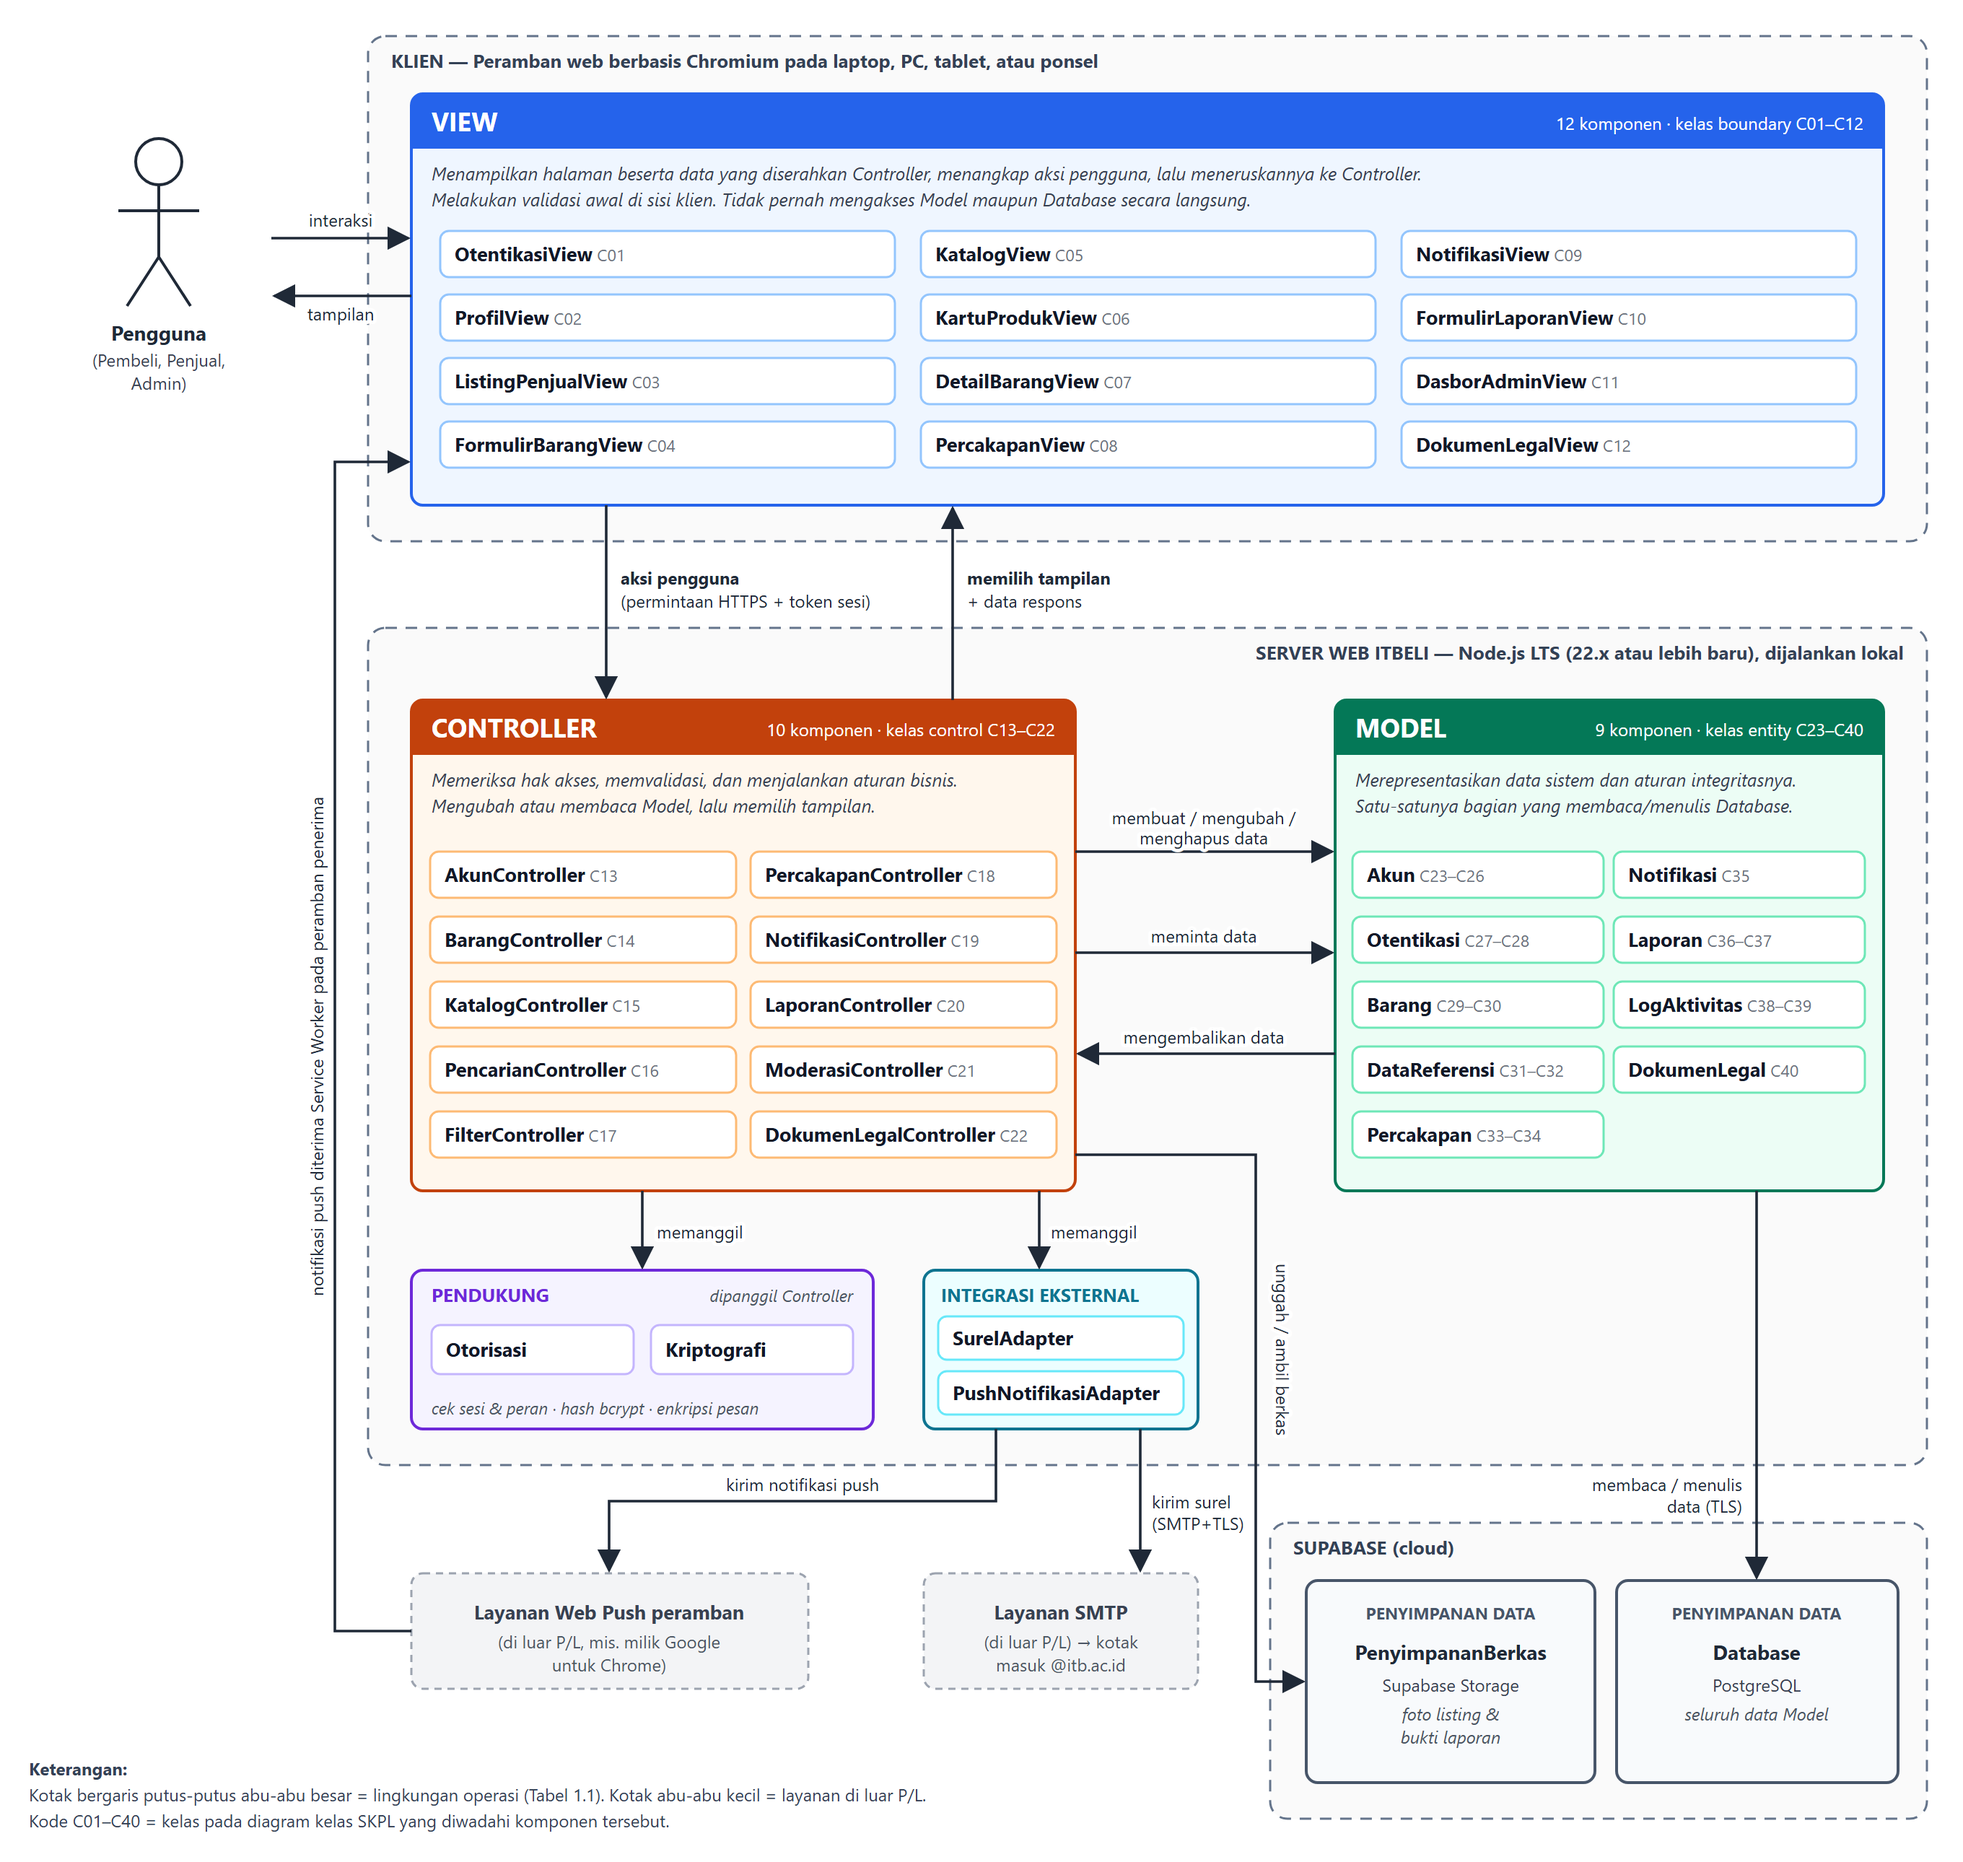
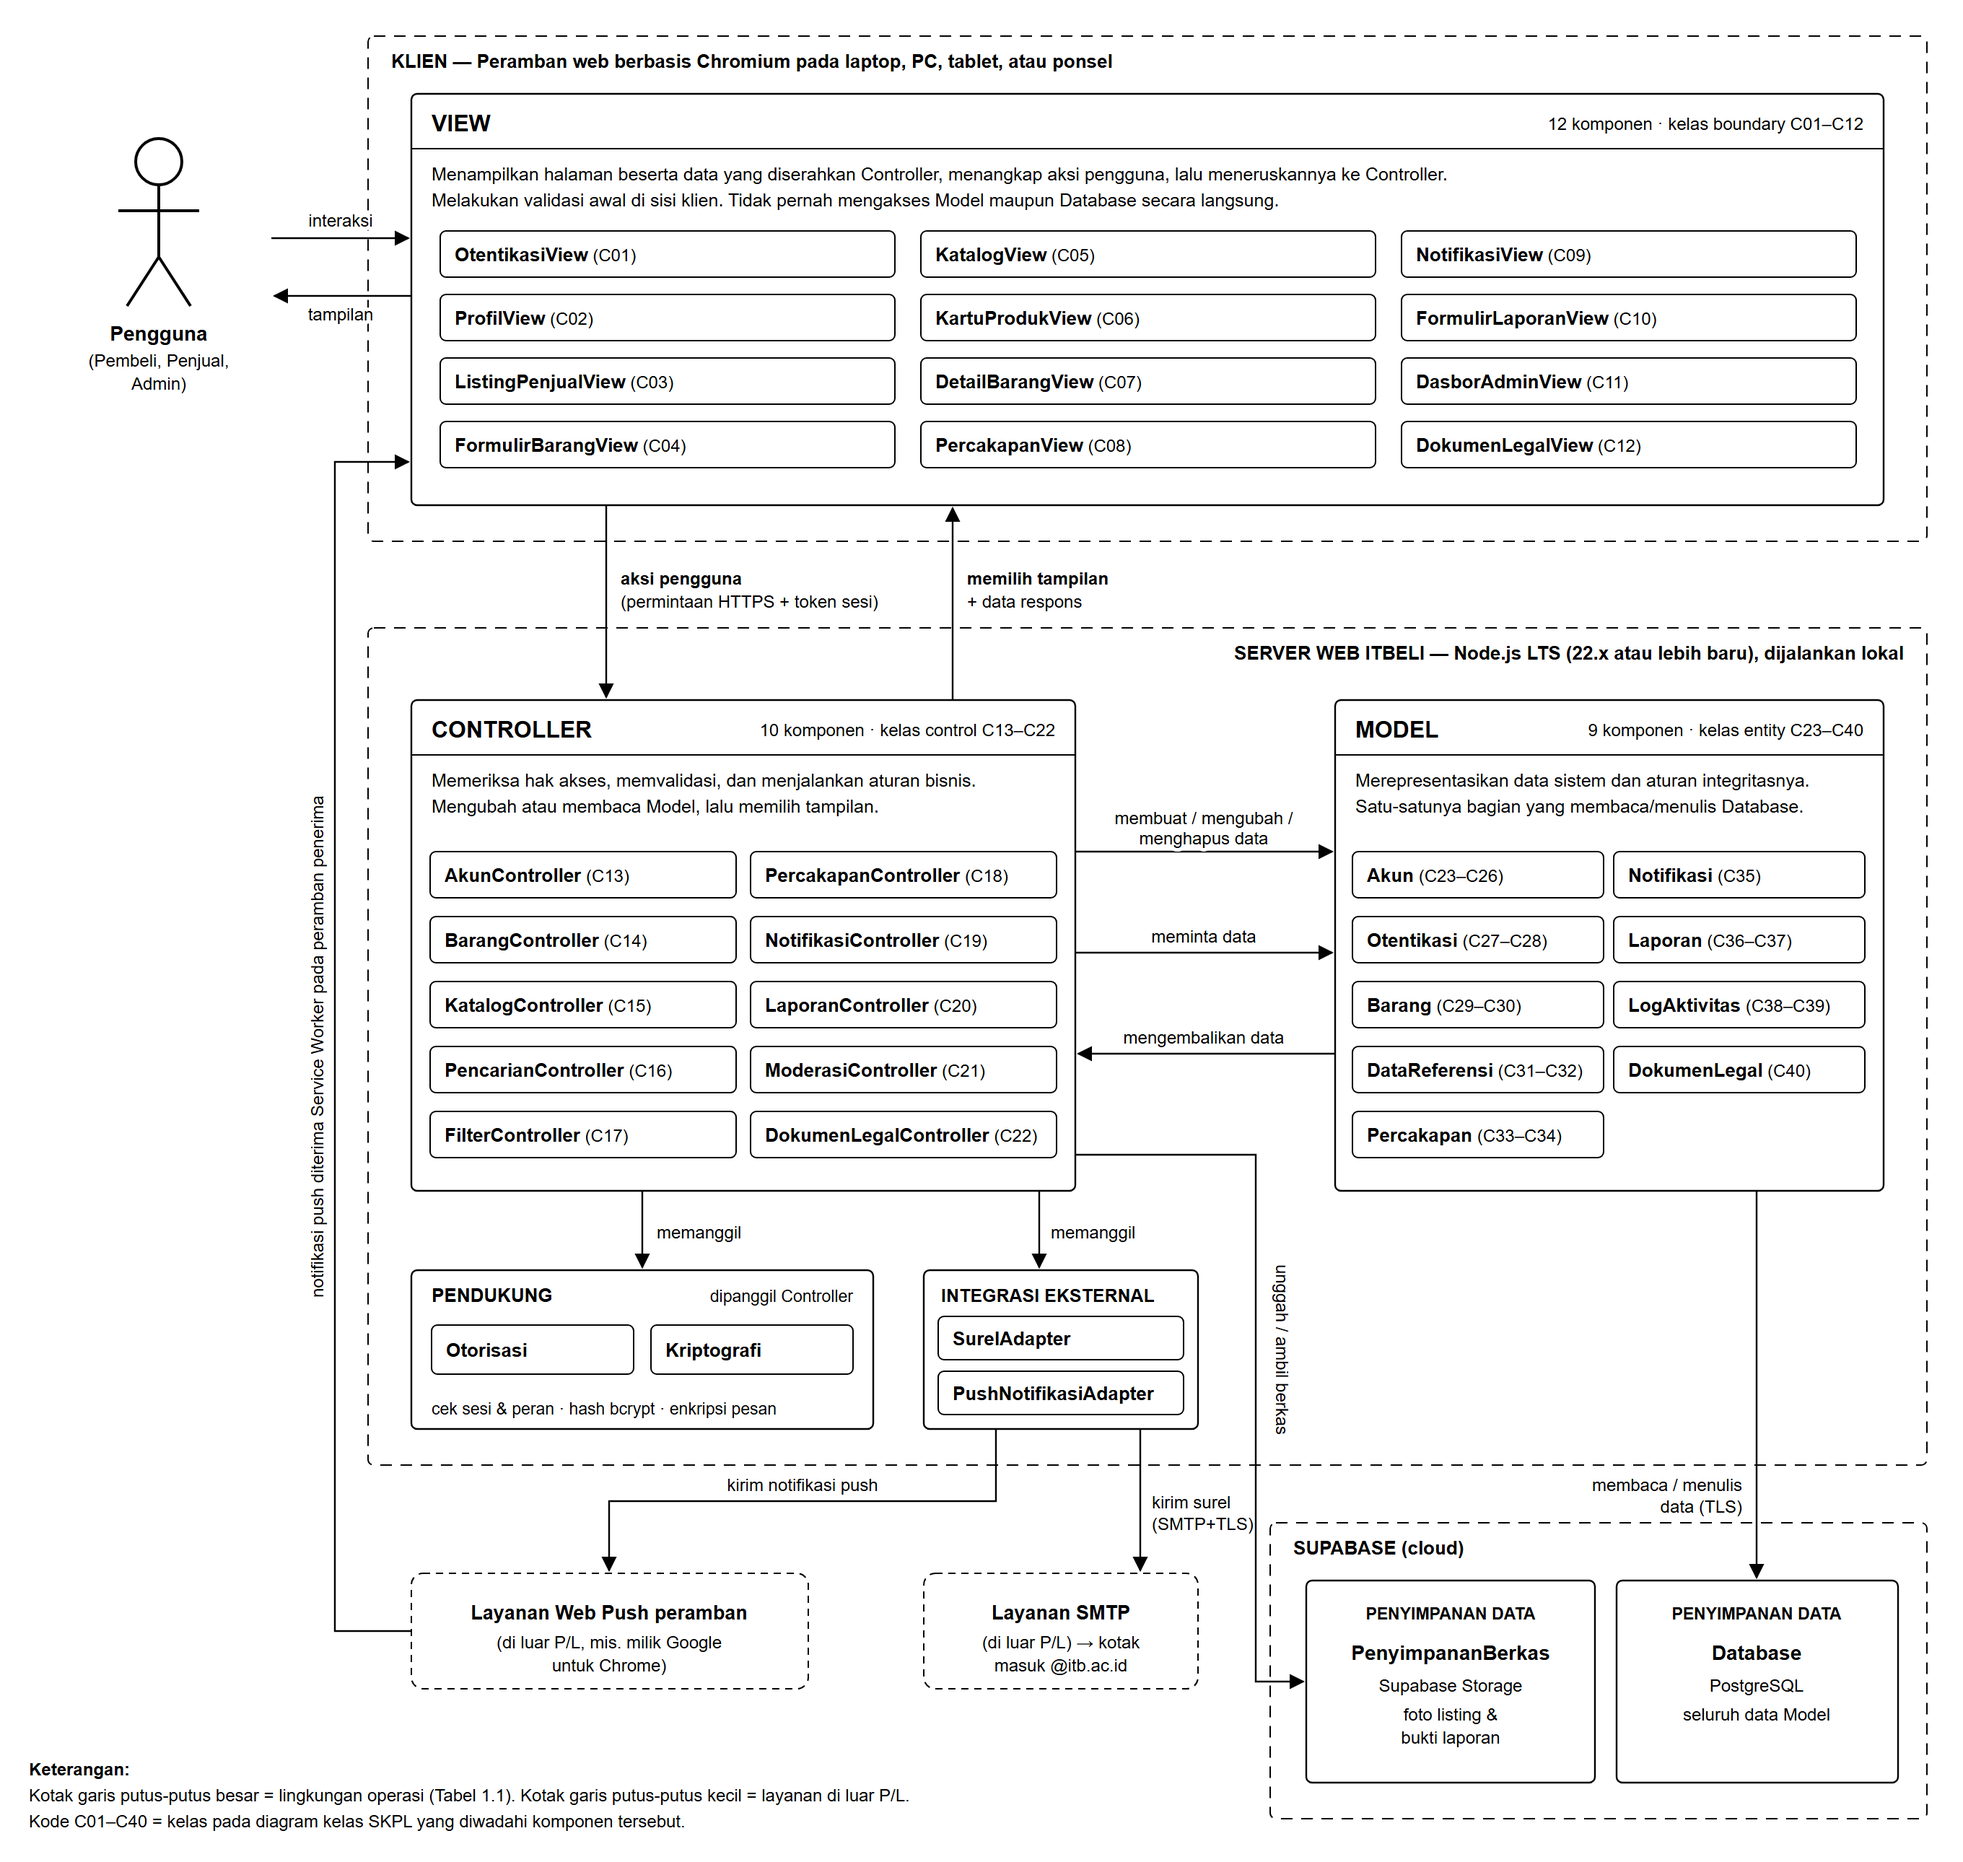
docs: ubah diagram arsitektur MVC bab 1 menjadi hitam putih

diff --git a/docs/M6/K01_G02_APL.md b/docs/M6/K01_G02_APL.md
@@ -93,7 +93,7 @@ Pemilihan MVC didasarkan pada karakteristik ITBELI yang telah dituangkan dalam d
 <i>Gambar 1. Penerapan Pola MVC pada ITBELI</i>
 </p>
 
-Gambar 1 menempatkan seluruh komponen pada Tabel 2.1 ke dalam bagian MVC dengan nama yang sama, sekaligus menunjukkan lingkungan operasi tempat setiap bagian dijalankan. Kotak *View* berisi 12 komponen yang berjalan pada peramban (zona Klien). Kotak *Controller* dan *Model* berada pada zona Server Web ITBELI bersama komponen *Pendukung* dan *Integrasi Eksternal*. Komponen *Penyimpanan Data* berada pada Supabase. Layanan Web Push peramban dan layanan SMTP digambarkan dengan kotak abu-abu karena keduanya berada di luar P/L ITBELI dan tidak termasuk komponen pada Tabel 2.1. Kode kelas di samping nama komponen (misalnya C01) menunjukkan kelas pada diagram kelas SKPL yang diwadahi komponen tersebut.
+Gambar 1 menempatkan seluruh komponen pada Tabel 2.1 ke dalam bagian MVC dengan nama yang sama, sekaligus menunjukkan lingkungan operasi tempat setiap bagian dijalankan. Kotak *View* berisi 12 komponen yang berjalan pada peramban (zona Klien). Kotak *Controller* dan *Model* berada pada zona Server Web ITBELI bersama komponen *Pendukung* dan *Integrasi Eksternal*. Komponen *Penyimpanan Data* berada pada Supabase. Layanan Web Push peramban dan layanan SMTP digambarkan dengan kotak bergaris putus-putus kecil karena keduanya berada di luar P/L ITBELI dan tidak termasuk komponen pada Tabel 2.1. Kode kelas di samping nama komponen (misalnya C01) menunjukkan kelas pada diagram kelas SKPL yang diwadahi komponen tersebut.
 
 Arti setiap panah pada Gambar 1 adalah sebagai berikut.
 - **interaksi** dan **tampilan**: pengguna hanya berinteraksi dengan *View*.
